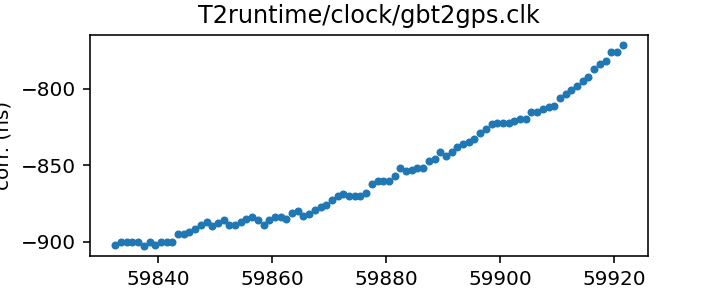
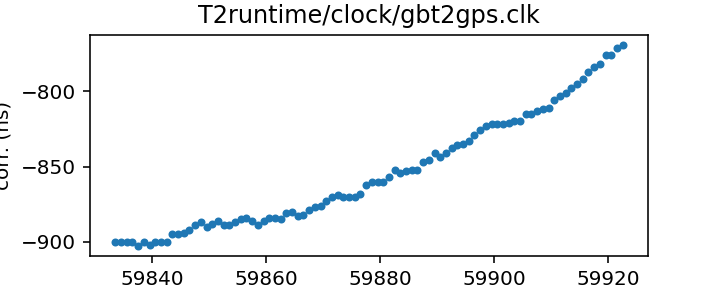
Routine gh-pages update from Github action Sat Dec 10 20:29:17 UTC 2022

diff --git a/status.md b/status.md
@@ -13,17 +13,17 @@ name of each clock file links to a page with more details.
 
 | Name | File | Corrections start | Corrections end | Last check date | Last check result 
 |:--- |:--- | --- | --- | --- |:--- 
-| [GPS to UTC](T2runtime/clock/gps2utc.clk.html) | `T2runtime/clock/gps2utc.clk` | 1993-01-01 MJD 48988.0 | 2022-10-27 MJD 59879.0 | 2022-12-09 | Unchanged 
-| [GPS to UTC (Combined Clock)](T2runtime/clock/gps2utc_cc.clk.html) | `T2runtime/clock/gps2utc_cc.clk` | 1993-01-01 MJD 48988.0 | 2022-10-27 MJD 59879.0 | 2022-12-09 | Unchanged 
-| [GPS to UTC (Corrected)](T2runtime/clock/gps2utc_c0p.clk.html) | `T2runtime/clock/gps2utc_c0p.clk` | 2010-12-29 MJD 55559.0 | 2022-10-27 MJD 59879.0 | 2022-12-09 | Unchanged 
-| [GBT](tempo/clock/time_gbt.dat.html) | `tempo/clock/time_gbt.dat` | 2000-12-31 MJD 51909.5 | 2022-12-08 MJD 59921.5 | 2022-12-09 | Updated 
-| [GBT (TEMPO2 converted from TEMPO)](T2runtime/clock/gbt2gps.clk.html) | `T2runtime/clock/gbt2gps.clk` | 2000-12-31 MJD 51909.5 | 2022-12-08 MJD 59921.5 | 2022-12-09 | Updated 
+| [GPS to UTC](T2runtime/clock/gps2utc.clk.html) | `T2runtime/clock/gps2utc.clk` | 1993-01-01 MJD 48988.0 | 2022-10-27 MJD 59879.0 | 2022-12-10 | Unchanged 
+| [GPS to UTC (Combined Clock)](T2runtime/clock/gps2utc_cc.clk.html) | `T2runtime/clock/gps2utc_cc.clk` | 1993-01-01 MJD 48988.0 | 2022-10-27 MJD 59879.0 | 2022-12-10 | Unchanged 
+| [GPS to UTC (Corrected)](T2runtime/clock/gps2utc_c0p.clk.html) | `T2runtime/clock/gps2utc_c0p.clk` | 2010-12-29 MJD 55559.0 | 2022-10-27 MJD 59879.0 | 2022-12-10 | Unchanged 
+| [GBT](tempo/clock/time_gbt.dat.html) | `tempo/clock/time_gbt.dat` | 2000-12-31 MJD 51909.5 | 2022-12-09 MJD 59922.5 | 2022-12-10 | Updated 
+| [GBT (TEMPO2 converted from TEMPO)](T2runtime/clock/gbt2gps.clk.html) | `T2runtime/clock/gbt2gps.clk` | 2000-12-31 MJD 51909.5 | 2022-12-09 MJD 59922.5 | 2022-12-10 | Updated 
 | [Jodrell Bank](T2runtime/clock/jb2gps.clk.html) | `T2runtime/clock/jb2gps.clk` | 2006-10-13 MJD 54021.4 | 2021-11-03 MJD 59521.0 | 2022-12-07 | Unchanged 
 | [Jodrell Bank Roach](T2runtime/clock/jbroach2jb.clk.html) | `T2runtime/clock/jbroach2jb.clk` | 2006-10-13 MJD 54021.4 | 2018-03-20 MJD 58197.6 | 2022-12-07 | Unchanged 
 | [Jodrell Bank DFB](T2runtime/clock/jbdfb2jb.clk.html) | `T2runtime/clock/jbdfb2jb.clk` | 2006-10-13 MJD 54021.4 | 2017-05-11 MJD 57884.0 | 2022-12-07 | Unchanged 
 | [Meerkat (observatory)](T2runtime/clock/mk2utc_observatory.clk.html) | `T2runtime/clock/mk2utc_observatory.clk` | 2019-01-01 MJD 58484.0 | 2022-11-07 MJD 59891.0 | 2022-12-05 | Unchanged 
-| [Leap seconds](tempo/clock/leap.sec.html) | `tempo/clock/leap.sec` | 1972-07-01 MJD 41499.0 | 2017-01-01 MJD 57754.0 | 2022-12-09 | Unchanged 
-| [UT1 table](tempo/clock/ut1.dat.html) | `tempo/clock/ut1.dat` | 1973-01-02 MJD 41684.0 | 2023-12-16 MJD 60294.0 | 2022-12-09 | Unchanged 
+| [Leap seconds](tempo/clock/leap.sec.html) | `tempo/clock/leap.sec` | 1972-07-01 MJD 41499.0 | 2017-01-01 MJD 57754.0 | 2022-12-10 | Unchanged 
+| [UT1 table](tempo/clock/ut1.dat.html) | `tempo/clock/ut1.dat` | 1973-01-02 MJD 41684.0 | 2023-12-16 MJD 60294.0 | 2022-12-10 | Unchanged 
 
 
 

diff --git a/T2runtime/clock/gbt2gps.clk.md b/T2runtime/clock/gbt2gps.clk.md
@@ -23,14 +23,13 @@ If questions arise about the conversion, contact Anne Archibald
 | Format | tempo2 |
 | Bogus last correction | False |
 | Clock file start | 2000-12-31 MJD 51909.5 |
-| Clock file end | 2022-12-08 MJD 59921.5 |
+| Clock file end | 2022-12-09 MJD 59922.5 |
 | Update interval (days) | 1 |
-| Last update attempt | 2022-12-09 |
+| Last update attempt | 2022-12-10 |
 | Last update result | Updated |
 
 Log entries from the last few update attempts:
 ```
-2022-11-30 20:31:22.495 - Updated
 2022-12-01 20:28:53.121 - Updated
 2022-12-02 20:29:10.435 - Updated
 2022-12-03 20:28:11.094 - Updated
@@ -40,12 +39,13 @@ Log entries from the last few update attempts:
 2022-12-07 20:29:39.411 - Updated
 2022-12-08 20:29:24.285 - Updated
 2022-12-09 20:32:48.553 - Updated
+2022-12-10 20:28:49.940 - Updated
 ```
 [Full log](https://raw.githubusercontent.com/ipta/pulsar-clock-corrections/main/log/T2runtime/clock/gbt2gps.clk.log)
 
 Leading comments from clock file:
 
-    # This file was automatically converted from tempo/clock/time_gbt.dat on 2022-12-09 20:32:48.469
+    # This file was automatically converted from tempo/clock/time_gbt.dat on 2022-12-10 20:28:49.872
 
 
 

diff --git a/tempo/clock/time_gbt.dat.md b/tempo/clock/time_gbt.dat.md
@@ -18,14 +18,13 @@ If questions arise, contact Ryan S. Lynch <rlynch@nrao.edu>.
 | Format | tempo |
 | Bogus last correction | False |
 | Clock file start | 2000-12-31 MJD 51909.5 |
-| Clock file end | 2022-12-08 MJD 59921.5 |
+| Clock file end | 2022-12-09 MJD 59922.5 |
 | Update interval (days) | 1 |
-| Last update attempt | 2022-12-09 |
+| Last update attempt | 2022-12-10 |
 | Last update result | Updated |
 
 Log entries from the last few update attempts:
 ```
-2022-11-30 20:31:22.425 - Updated
 2022-12-01 20:28:53.049 - Updated
 2022-12-02 20:29:10.361 - Updated
 2022-12-03 20:28:11.021 - Updated
@@ -35,6 +34,7 @@ Log entries from the last few update attempts:
 2022-12-07 20:29:39.339 - Updated
 2022-12-08 20:29:24.198 - Updated
 2022-12-09 20:32:48.467 - Updated
+2022-12-10 20:28:49.870 - Updated
 ```
 [Full log](https://raw.githubusercontent.com/ipta/pulsar-clock-corrections/main/log/tempo/clock/time_gbt.dat.log)
 

diff --git a/T2runtime/clock/gps2utc_c0p.clk.md b/T2runtime/clock/gps2utc_c0p.clk.md
@@ -30,12 +30,11 @@ about the BIPM's published corrections, contact <tai@bipm.org>.
 | Clock file start | 2010-12-29 MJD 55559.0 |
 | Clock file end | 2022-10-27 MJD 59879.0 |
 | Update interval (days) | 1 |
-| Last update attempt | 2022-12-09 |
+| Last update attempt | 2022-12-10 |
 | Last update result | Unchanged |
 
 Log entries from the last few update attempts:
 ```
-2022-11-30 20:31:21.685 - Unchanged
 2022-12-01 20:28:52.238 - Unchanged
 2022-12-02 20:29:10.035 - Unchanged
 2022-12-03 20:28:10.703 - Unchanged
@@ -45,6 +44,7 @@ Log entries from the last few update attempts:
 2022-12-07 20:29:38.978 - Unchanged
 2022-12-08 20:29:23.129 - Unchanged
 2022-12-09 20:32:47.948 - Unchanged
+2022-12-10 20:28:48.930 - Unchanged
 ```
 [Full log](https://raw.githubusercontent.com/ipta/pulsar-clock-corrections/main/log/T2runtime/clock/gps2utc_c0p.clk.log)
 

diff --git a/T2runtime/clock/gps2utc_cc.clk.md b/T2runtime/clock/gps2utc_cc.clk.md
@@ -29,12 +29,11 @@ about the BIPM's published corrections, contact <tai@bipm.org>.
 | Clock file start | 1993-01-01 MJD 48988.0 |
 | Clock file end | 2022-10-27 MJD 59879.0 |
 | Update interval (days) | 1 |
-| Last update attempt | 2022-12-09 |
+| Last update attempt | 2022-12-10 |
 | Last update result | Unchanged |
 
 Log entries from the last few update attempts:
 ```
-2022-11-30 20:31:21.674 - Unchanged
 2022-12-01 20:28:52.226 - Unchanged
 2022-12-02 20:29:10.023 - Unchanged
 2022-12-03 20:28:10.692 - Unchanged
@@ -44,6 +43,7 @@ Log entries from the last few update attempts:
 2022-12-07 20:29:38.966 - Unchanged
 2022-12-08 20:29:23.116 - Unchanged
 2022-12-09 20:32:47.922 - Unchanged
+2022-12-10 20:28:48.916 - Unchanged
 ```
 [Full log](https://raw.githubusercontent.com/ipta/pulsar-clock-corrections/main/log/T2runtime/clock/gps2utc_cc.clk.log)
 

diff --git a/T2runtime/clock/gps2utc.clk.md b/T2runtime/clock/gps2utc.clk.md
@@ -32,12 +32,11 @@ about the BIPM's published corrections, contact <tai@bipm.org>.
 | Clock file start | 1993-01-01 MJD 48988.0 |
 | Clock file end | 2022-10-27 MJD 59879.0 |
 | Update interval (days) | 1 |
-| Last update attempt | 2022-12-09 |
+| Last update attempt | 2022-12-10 |
 | Last update result | Unchanged |
 
 Log entries from the last few update attempts:
 ```
-2022-11-30 20:31:21.641 - Unchanged
 2022-12-01 20:28:52.193 - Unchanged
 2022-12-02 20:29:09.989 - Unchanged
 2022-12-03 20:28:10.660 - Unchanged
@@ -47,6 +46,7 @@ Log entries from the last few update attempts:
 2022-12-07 20:29:38.932 - Unchanged
 2022-12-08 20:29:23.072 - Unchanged
 2022-12-09 20:32:47.860 - Unchanged
+2022-12-10 20:28:48.881 - Unchanged
 ```
 [Full log](https://raw.githubusercontent.com/ipta/pulsar-clock-corrections/main/log/T2runtime/clock/gps2utc.clk.log)
 

diff --git a/tempo/clock/leap.sec.md b/tempo/clock/leap.sec.md
@@ -21,12 +21,11 @@ If there are any questions, contact Anne Archibald
 | File start | 1972-07-01 MJD 41499.0 |
 | File end | 2017-01-01 MJD 57754.0 |
 | Update interval (days) | 0 |
-| Last update attempt | 2022-12-09 |
+| Last update attempt | 2022-12-10 |
 | Last update result | Unchanged |
 
 Log entries from the last few update attempts:
 ```
-2022-11-30 20:31:27.867 - Unchanged
 2022-12-01 20:29:04.331 - Unchanged
 2022-12-02 20:29:10.471 - Unchanged
 2022-12-03 20:28:11.127 - Unchanged
@@ -36,5 +35,6 @@ Log entries from the last few update attempts:
 2022-12-07 20:29:41.795 - Unchanged
 2022-12-08 20:29:27.693 - Unchanged
 2022-12-09 20:32:48.596 - Unchanged
+2022-12-10 20:28:49.977 - Unchanged
 ```
 [Full log](https://raw.githubusercontent.com/ipta/pulsar-clock-corrections/main/log/tempo/clock/leap.sec.log)

diff --git a/tempo/clock/ut1.dat.md b/tempo/clock/ut1.dat.md
@@ -30,12 +30,11 @@ If there are any questions, contact Anne Archibald
 | File start | 1973-01-02 MJD 41684.0 |
 | File end | 2023-12-16 MJD 60294.0 |
 | Update interval (days) | 0 |
-| Last update attempt | 2022-12-09 |
+| Last update attempt | 2022-12-10 |
 | Last update result | Unchanged |
 
 Log entries from the last few update attempts:
 ```
-2022-11-30 20:31:38.833 - Unchanged
 2022-12-01 20:29:14.250 - Updated
 2022-12-02 20:29:18.675 - Unchanged
 2022-12-03 20:28:18.825 - Unchanged
@@ -45,5 +44,6 @@ Log entries from the last few update attempts:
 2022-12-07 20:29:49.967 - Unchanged
 2022-12-08 20:29:40.331 - Updated
 2022-12-09 20:32:56.077 - Unchanged
+2022-12-10 20:29:02.930 - Unchanged
 ```
 [Full log](https://raw.githubusercontent.com/ipta/pulsar-clock-corrections/main/log/tempo/clock/ut1.dat.log)
